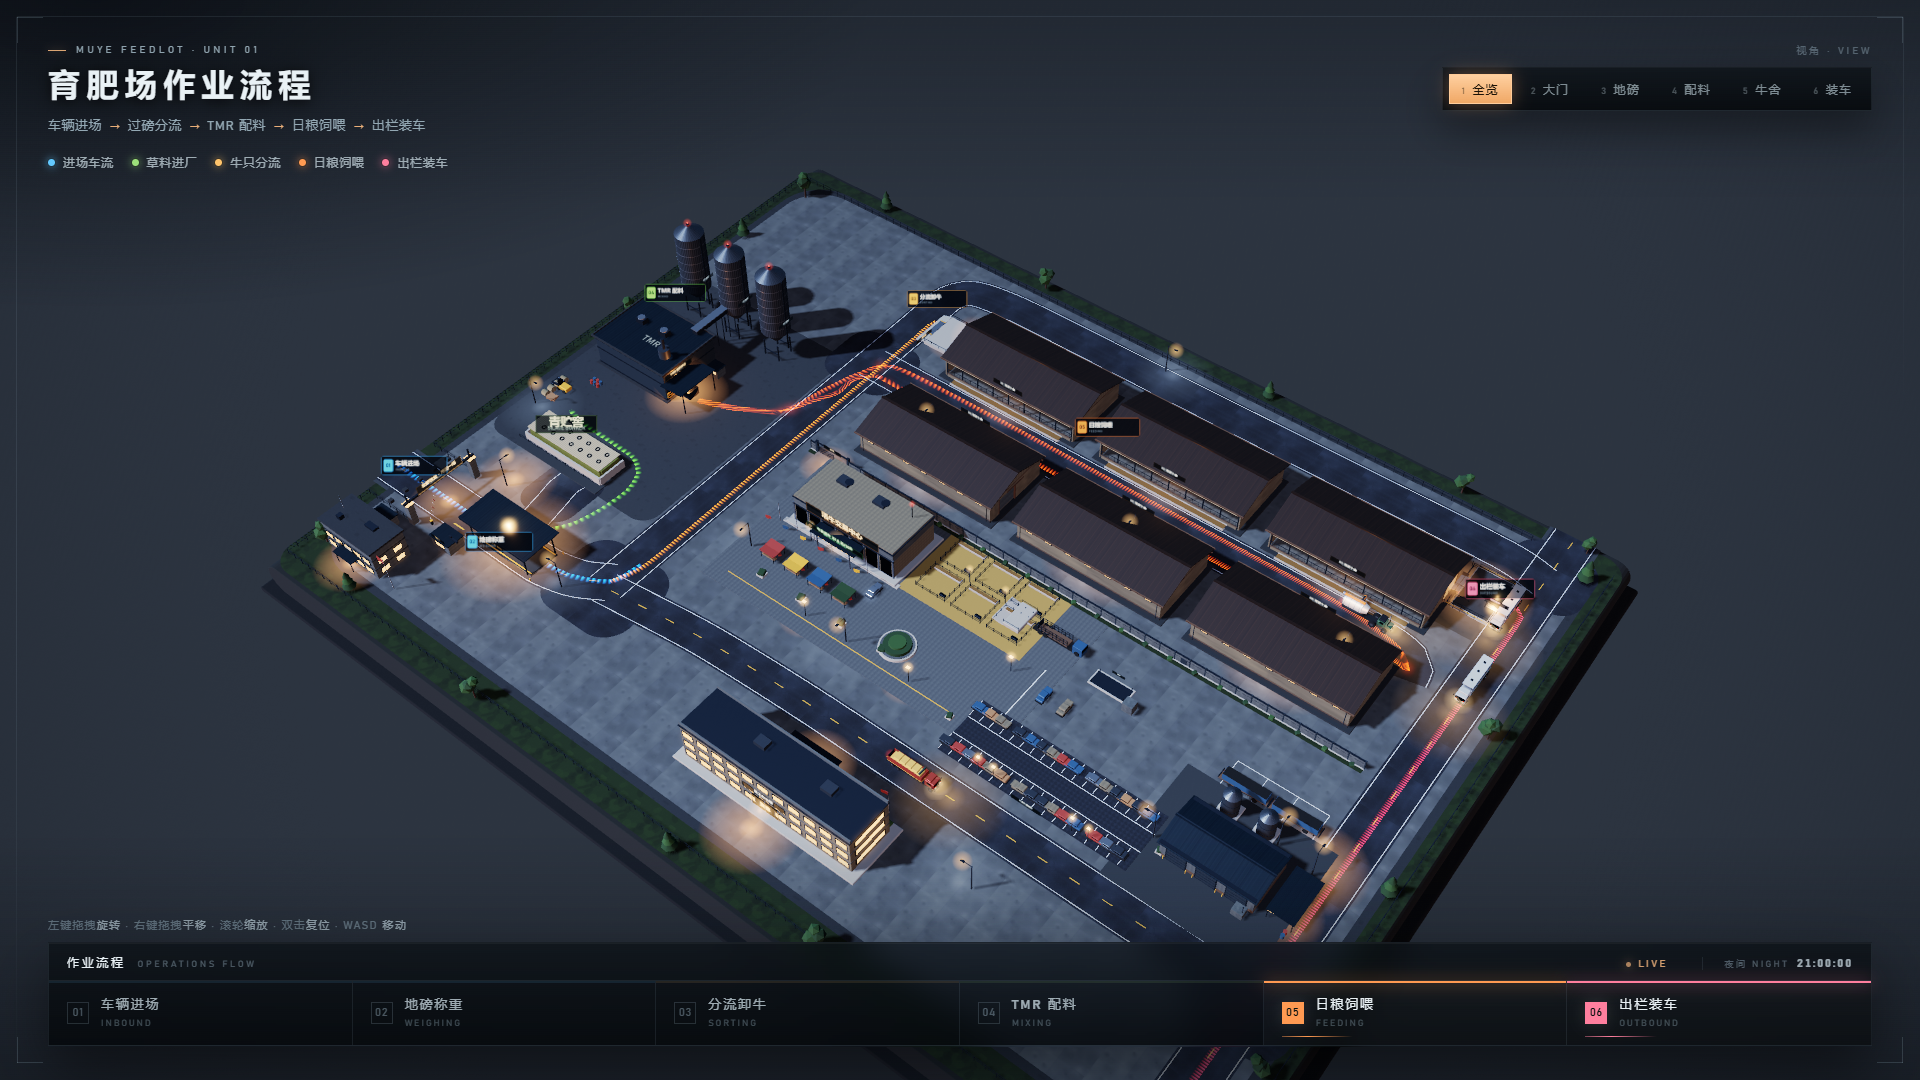
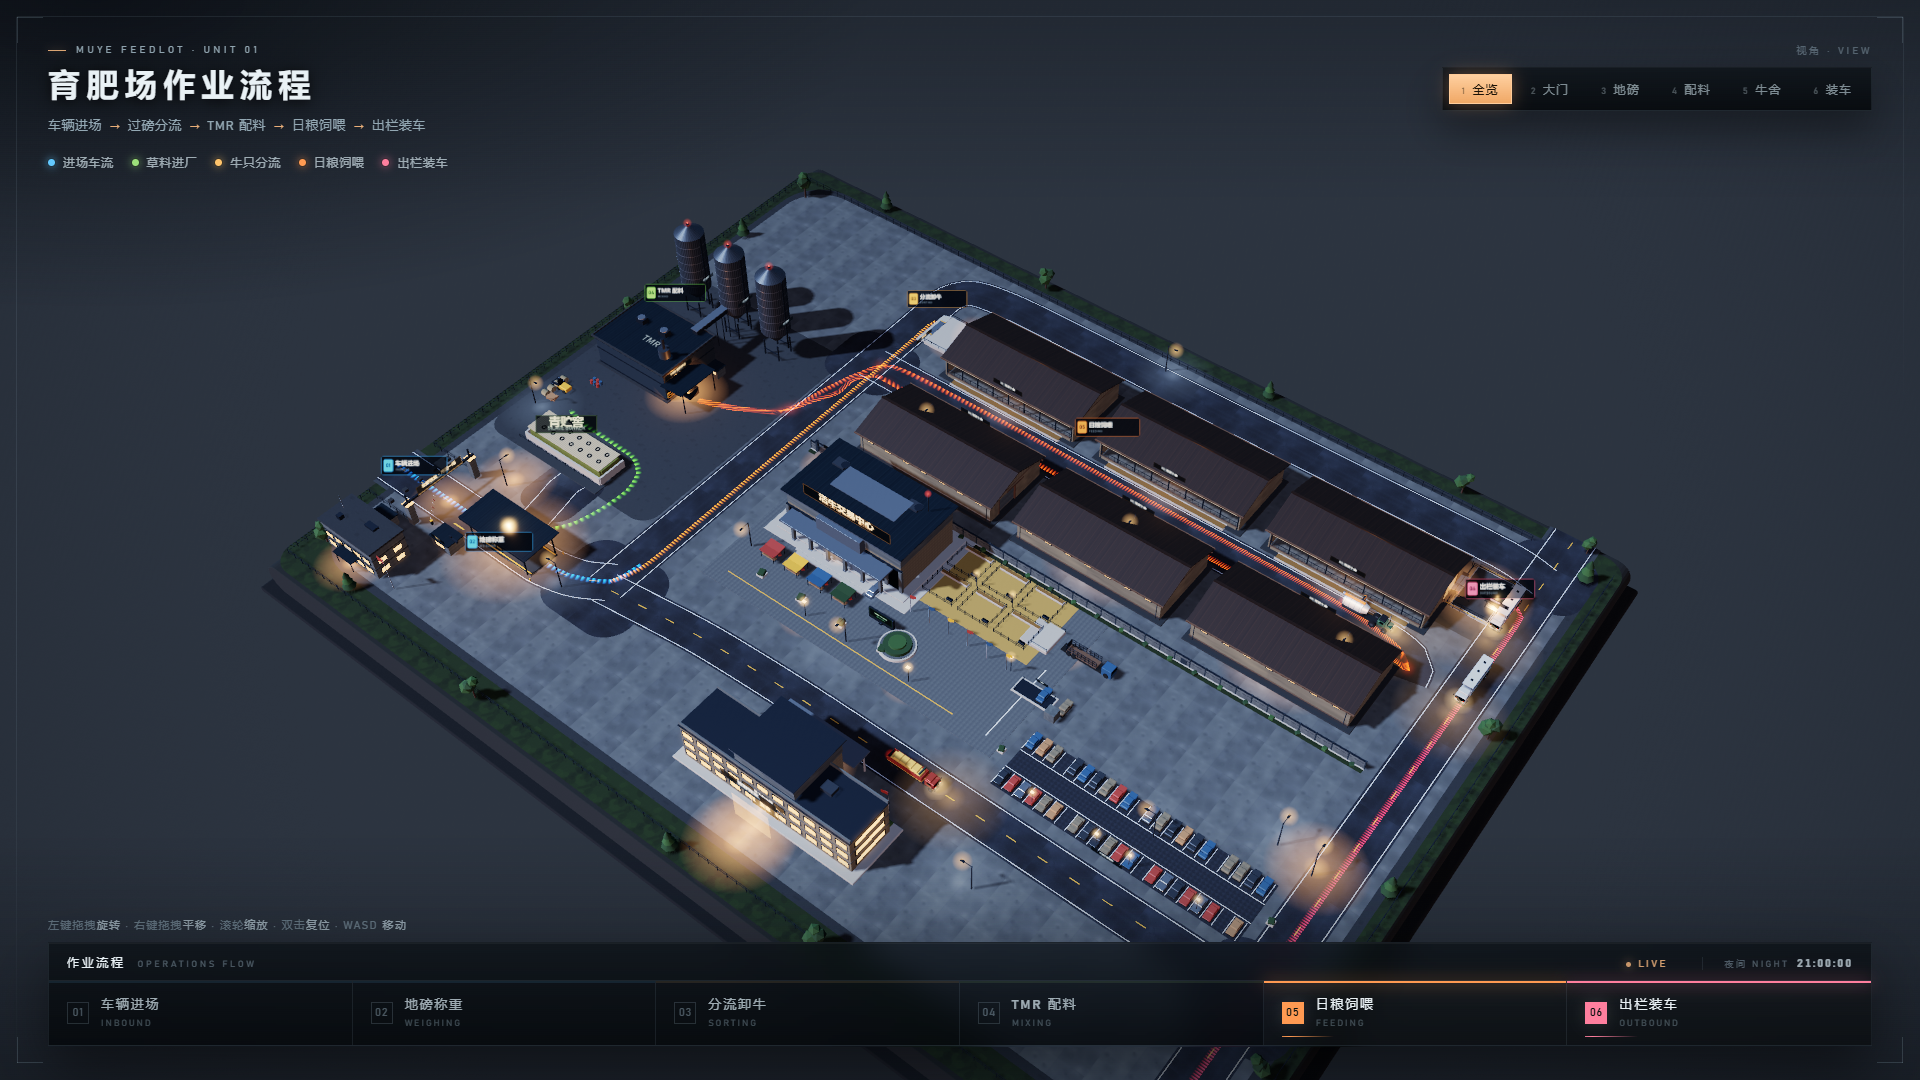
feat: 去掉机修车库；车位改为垂直停放；交易大厅与员工楼加体量
- 删除东南角的机修车库和挂车停放带（含旧车位线），该区并入停车场
- 停车场扩到 60m 宽（约 44 个车位），车头朝向改为垂直车位方向
- 交易大厅重做：抬高台基、六柱柱廊、通高玻璃中庭、屋顶上立招牌、广场行情立牌，屋顶加采光带与设备
- 员工楼加中部塔楼（通高中庭 + 柱廊 + 楼名），不再是一条平箱子

Changed region(s): [[0.3438, 0.3972, 0.7188, 0.8861]]

diff --git a/js/buildings.js b/js/buildings.js
@@ -783,55 +783,74 @@
     U.box(kit, M.yellow, 66, 0.03, 0.22, -6, 0.3, 31);
     U.box(kit, M.line, 0.22, 0.03, 22, 36, 0.3, 20);
 
-    // ── 交易大厅 ──
-    U.box(kit, M.concreteTrough, Hh.w + 3.4, 0.62, Hh.d + 3.4, cx, 0.56, cz, 0, 0, 0, 1.4);
-    U.box(kit, M.wall, Hh.w, 8.8, Hh.d, cx, 4.95, cz, 0, 0, 0, 0.04);
-    U.box(kit, M.wallCool, Hh.w + 0.08, 2.3, Hh.d + 0.08, cx, 7.55, cz);
-    U.box(kit, M.steel, Hh.w + 0.5, 0.24, Hh.d + 0.5, cx, 8.86, cz);
-    U.box(kit, M.concreteTrough, Hh.w + 5, 0.26, 1.4, cx, 0.35, zf + 1.2, 0, 0, 0, 0.9);
+    // ── 交易大厅：抬高的台基 + 柱廊 + 玻璃幕墙 + 中庭 ──
+    U.box(kit, M.concreteTrough, Hh.w + 9, 0.3, Hh.d + 9, cx, 0.3, cz, 0, 0, 0, 1.8);
+    U.box(kit, M.concreteTrough, Hh.w + 4.6, 0.34, Hh.d + 4.6, cx, 0.62, cz, 0, 0, 0, 1.2);
+    for (let s = 0; s < 3; s++) {
+      U.box(kit, M.concreteTrough, 24 - s * 1.8, 0.22, 1.2, cx, 0.11 + s * 0.22, zf + 3.4 + s * 1.1, 0, 0, 0, 0.18);
+    }
+    // 主体
+    U.box(kit, M.wall, Hh.w, 11.2, Hh.d, cx, 0.96 + 5.6, cz, 0, 0, 0, 0.04);
+    U.box(kit, M.wallCool, Hh.w + 0.14, 2.6, Hh.d + 0.14, cx, 10.3, cz);
+    U.box(kit, M.steelLight, Hh.w + 2.0, 0.5, Hh.d + 2.0, cx, 12.8, cz, 0, 0, 0, 0.2);
+    U.box(kit, M.roofPlant, Hh.w + 2.1, 0.16, Hh.d + 2.1, cx, 13.1, cz);
+    // 屋顶采光带 + 设备
+    U.box(kit, M.glass, 18, 0.55, 6, cx, 13.35, cz - 1);
+    U.box(kit, M.steelLight, 19.2, 0.2, 7.2, cx, 13.62, cz - 1);
+    for (const px of [cx - 12, cx + 10]) {
+      U.box(kit, M.galv, 3.4, 1.2, 2.6, px, 13.1, cz - 4.2);
+      U.cyl(kit, M.steel, 1.1, 1.1, 0.16, 12, px + 1.4, 13.8, cz - 4.2);
+    }
+    U.cyl(kit, M.steel, 0.12, 0.12, 6.0, 8, cx + 13.5, 16.0, cz - 5);
+    glowSprite(world, 0xff5a4a, 1.8, cx + 13.5, 19.1, cz - 5, 0.9);
 
-    // 南立面玻璃幕墙
-    const bays = 7, bayW = Hh.w / bays;
+    // 南立面：竖向石柱 + 玻璃幕墙
+    const bays = 8, bayW = Hh.w / bays;
+    for (let i = 0; i <= bays; i++) {
+      U.box(kit, M.wallCool, 0.9, 7.4, 0.7, cx - hw + bayW * i, 4.2, zf + 0.1);
+    }
     for (let i = 0; i < bays; i++) {
       const x = cx - hw + bayW * (i + 0.5);
-      U.box(kit, M.glass, bayW - 1.0, 5.6, 0.16, x, 3.6, zf + 0.02);
-      U.box(kit, M.steelLight, 0.42, 6.2, 0.3, cx - hw + bayW * i, 3.9, zf + 0.04);
-      U.box(kit, M.steel, bayW - 0.9, 0.12, 0.22, x, 0.95, zf + 0.06);
+      U.box(kit, M.glass, bayW - 1.0, 6.6, 0.16, x, 4.0, zf - 0.04);
+      U.box(kit, M.steel, bayW - 0.9, 0.1, 0.2, x, 1.0, zf + 0.06);
+      U.box(kit, M.steel, bayW - 0.9, 0.1, 0.2, x, 7.5, zf + 0.06);
     }
-    U.box(kit, M.steelLight, 0.42, 6.2, 0.3, cx + hw, 3.9, zf + 0.04);
-    U.box(kit, M.steel, Hh.w + 0.6, 0.26, 0.4, cx, 6.55, zf + 0.06);
-    glowPlane(world, Hh.w - 3, 4.6, cx, 3.4, zf - 0.6, 0, 0xffc98a, 0.14);
+    U.box(kit, M.steel, Hh.w + 0.8, 0.3, 0.5, cx, 8.1, zf + 0.1);
+    glowPlane(world, Hh.w - 4, 5.2, cx, 3.6, zf - 0.7, 0, 0xffc98a, 0.2);
 
-    // 入口雨棚
-    const doorW = 7.4;
-    U.box(kit, M.roofPlant, doorW + 6, 0.22, 4.2, cx, 5.75, zf + 2.0, -0.03, 0, 0);
-    for (const px of [cx - doorW / 2 - 1.2, cx + doorW / 2 + 1.2]) {
-      U.box(kit, M.steelLight, 0.24, 5.6, 0.24, px, 2.85, zf + 3.7);
+    // 入口中庭（外凸 1.6m 的高玻璃盒）+ 柱廊
+    const atW = 12.0, atH = 10.4;
+    U.box(kit, M.steelLight, atW + 1.2, atH + 0.6, 1.9, cx, 0.96 + (atH + 0.6) / 2, zf + 0.9, 0, 0, 0, 0.1);
+    U.box(kit, M.glass, atW, atH, 1.1, cx, 0.96 + atH / 2, zf + 1.0);
+    for (let i = -2; i <= 2; i++) {
+      U.box(kit, M.steelLight, 0.18, atH, 0.2, cx + i * (atW / 5), 0.96 + atH / 2, zf + 1.56);
     }
-    U.box(kit, M.warmGlow, doorW + 5, 0.07, 0.08, cx, 5.6, zf + 4.0);
-    U.box(kit, M.glass, doorW, 4.6, 0.14, cx, 2.6, zf + 0.1);
-    for (const px of [cx - doorW / 2, cx + doorW / 2, cx]) {
-      U.box(kit, M.steelLight, 0.22, 4.7, 0.22, px, 2.6, zf + 0.14);
+    U.box(kit, M.warmGlow, atW, 0.1, 0.12, cx, 11.5, zf + 1.6);
+    glowPlane(world, atW - 1, atH - 1.2, cx, 1.1 + (atH - 1.2) / 2, zf - 0.2, 0, 0xffbb78, 0.3);
+    // 柱廊（六根方柱 + 檐口梁）
+    for (const px of [-13.2, -7.9, -2.6, 2.6, 7.9, 13.2]) {
+      U.box(kit, M.wallCool, 0.78, 7.0, 0.78, cx + px, 4.0, zf + 2.9, 0, 0, 0, 0.08);
+      U.box(kit, M.steelLight, 1.0, 0.24, 1.0, cx + px, 0.86, zf + 2.9, 0, 0, 0, 0.1);
+      U.box(kit, M.steelLight, 1.0, 0.26, 1.0, cx + px, 7.5, zf + 2.9, 0, 0, 0, 0.1);
     }
-    world.pools.push({ x: cx, z: zf + 4.6, size: 26, warm: 1 });
-    glowSprite(world, 0xffcf9a, 6.5, cx, 4.6, zf + 2.2, 0.5);
+    U.box(kit, M.steelLight, 30.5, 0.55, 4.6, cx, 7.9, zf + 2.9, 0, 0, 0, 0.14);
+    U.box(kit, M.warmGlow, 28.5, 0.07, 0.1, cx, 7.6, zf + 4.9);
+    world.pools.push({ x: cx, z: zf + 4.2, size: 30, warm: 1 });
+    glowSprite(world, 0xffcf9a, 7.5, cx, 5.0, zf + 2.2, 0.5);
 
-    // 招牌与行情屏
-    sign(world, '活牛交易中心', 'LIVE CATTLE MARKET · 每日竞价', 22, 3.0, cx, 8.35, zf + 0.16, 0, {
-      size: 96, subSize: 34, bg: 'rgba(9,12,14,0.92)', border: 'rgba(255,178,104,0.5)',
-      glow: 'rgba(255,160,80,0.35)', color: '#ffe6c4', subColor: 'rgba(255,196,150,0.8)',
+    // 屋顶招牌（立在女儿墙上，不会被雨棚遮住）
+    U.box(kit, M.steel, 26.5, 0.3, 0.5, cx, 12.7, zf - 1.4);
+    sign(world, '活牛交易中心', 'LIVE CATTLE MARKET · 每日竞价', 26, 3.4, cx, 14.6, zf - 1.5, 0, {
+      size: 108, subSize: 38, bg: 'rgba(9,12,14,0.94)', border: 'rgba(255,178,104,0.55)',
+      glow: 'rgba(255,160,80,0.4)', color: '#ffe6c4', subColor: 'rgba(255,196,150,0.82)',
     });
-    sign(world, '今日活牛 32.6 元/公斤', '挂牌 128 头 · 成交 96 头', 17, 1.9, cx, 6.35, zf + 2.9, 0, {
-      size: 64, subSize: 38, bg: 'rgba(10,14,12,0.9)', border: 'rgba(140,235,170,0.42)',
-      glow: 'rgba(120,240,180,0.22)', color: '#c8f5d6', subColor: 'rgba(150,240,190,0.82)',
+    // 广场上的行情立牌
+    U.box(kit, M.steel, 7.2, 3.4, 0.6, cx + 19, 2.0, zf + 9.5, 0, 0, 0, 0.14);
+    U.box(kit, M.steel, 0.9, 0.7, 1.4, cx + 19, 0.6, zf + 9.5, 0, 0, 0, 0.1);
+    sign(world, '今日活牛 32.6 元/公斤', '挂牌 128 头 · 成交 96 头', 6.6, 2.6, cx + 19, 2.6, zf + 9.82, 0, {
+      size: 54, subSize: 34, bg: 'rgba(10,14,12,0.94)', border: 'rgba(140,235,170,0.46)',
+      glow: 'rgba(120,240,180,0.24)', color: '#c8f5d6', subColor: 'rgba(150,240,190,0.85)',
     });
-    // 屋顶设备
-    for (const px of [cx - 8, cx + 3]) {
-      U.box(kit, M.galv, 3.4, 1.2, 2.6, px, 9.5, cz - 3);
-      U.cyl(kit, M.steel, 1.1, 1.1, 0.16, 12, px + 1.4, 10.2, cz - 3);
-    }
-    U.cyl(kit, M.steel, 0.12, 0.12, 5.0, 8, cx + 11.5, 11.2, cz - 4);
-    glowSprite(world, 0xff5a4a, 1.6, cx + 11.5, 13.8, cz - 4, 0.9);
 
     // ── 待售栏 ──
     const penX = P.x0, penZ = P.z0;
@@ -919,10 +938,10 @@
     }
     const flagCols = [M.red, M.blue, M.yellow, M.red, M.blue, M.yellow];
     for (let i = 0; i < flagCols.length; i++) {
-      const x = -40 + i * 5.4;
-      U.cyl(kit, M.steelLight, 0.06, 0.09, 6.4, 6, x, 3.4, 11.8);
-      U.box(kit, flagCols[i], 1.5, 0.85, 0.05, x + 0.8, 6.0, 16.2, 0, 0.22, 0);
-      U.box(kit, flagCols[i], 0.9, 0.6, 0.05, x + 0.5, 5.5, 16.2, 0, 0.1, 0);
+      const x = 2 + i * 5.4;
+      U.cyl(kit, M.steelLight, 0.06, 0.09, 6.4, 6, x, 3.4, 14.4);
+      U.box(kit, flagCols[i], 1.5, 0.85, 0.05, x + 0.8, 6.0, 14.4, 0, 0.22, 0);
+      U.box(kit, flagCols[i], 0.9, 0.6, 0.05, x + 0.5, 5.5, 14.4, 0, 0.1, 0);
     }
     // 广场花箱
     for (let i = 0; i < 4; i++) {
@@ -962,6 +981,34 @@
     U.box(kit, M.wallCool, w + 0.4, 1.0, 0.3, cx, 0.8 + H + 0.62, zf - 0.2);
     U.box(kit, M.wallCool, w + 0.4, 1.0, 0.3, cx, 0.8 + H + 0.62, cz - d / 2 + 0.2);
 
+    // 中部塔楼：入口门厅 + 通高玻璃中庭（让立面不至于一片平）
+    const pavW = 16, pavD = 14.5, pavZ = cz + 2.2;
+    U.box(kit, M.wall, pavW, 14.6, pavD, cx, 0.8 + 7.3, pavZ, 0, 0, 0, 0.04);
+    U.box(kit, M.wallCool, pavW + 0.24, 3.2, pavD + 0.24, cx, 13.4, pavZ);
+    U.box(kit, M.steelLight, pavW + 1.6, 0.42, pavD + 1.6, cx, 15.6, pavZ, 0, 0, 0, 0.22);
+    U.box(kit, M.steel, pavW + 1.7, 0.14, pavD + 1.7, cx, 15.9, pavZ);
+    // 通高中庭玻璃（贴着塔楼前脸）
+    const pgW = 11.4, pgH = 10.2;
+    U.box(kit, M.steelLight, pgW + 1.0, pgH + 0.5, 0.5, cx, 0.8 + (pgH + 0.5) / 2, pavZ + pavD / 2 + 0.2, 0, 0, 0, 0.1);
+    U.box(kit, M.glass, pgW, pgH, 0.2, cx, 0.8 + pgH / 2, pavZ + pavD / 2 + 0.42);
+    for (let i = -2; i <= 2; i++) {
+      U.box(kit, M.steelLight, 0.22, pgH, 0.24, cx + i * (pgW / 5), 0.8 + pgH / 2, pavZ + pavD / 2 + 0.5);
+    }
+    U.box(kit, M.warmGlow, pgW, 0.12, 0.1, cx, 0.9 + pgH, pavZ + pavD / 2 + 0.56);
+    glowPlane(world, pgW - 1.5, 8.0, cx, 4.4, pavZ + pavD / 2 + 0.62, 0, 0xffc98a, 0.2);
+    // 门厅雨棚
+    U.box(kit, M.steelLight, pavW + 6, 0.4, 5.2, cx, 8.4, pavZ + pavD / 2 + 2.6, -0.02, 0, 0, 0.14);
+    U.box(kit, M.warmGlow, pavW + 5, 0.07, 0.1, cx, 8.16, pavZ + pavD / 2 + 5.2);
+    for (const px of [cx - pavW / 2 - 1.6, cx + pavW / 2 + 1.6]) {
+      U.cyl(kit, M.steelLight, 0.24, 0.28, 7.6, 12, px, 4.6, pavZ + pavD / 2 + 4.6);
+    }
+    world.pools.push({ x: cx, z: pavZ + pavD / 2 + 5.2, size: 24, warm: 1 });
+    // 塔楼顶的楼名
+    sign(world, '牧野牧业', 'MUYE CATTLE · 员工办公楼', 15, 2.4, cx, 13.6, pavZ + pavD / 2 + 0.3, 0, {
+      size: 96, subSize: 34, bg: 'rgba(9,12,15,0.94)', border: 'rgba(150,205,255,0.46)',
+      glow: 'rgba(120,180,255,0.3)', color: '#e6f1ff', subColor: 'rgba(175,205,235,0.82)',
+    });
+
     // 三层窗（前后两个长立面都开窗，楼在路南侧、镜头从东南看过来）
     const bays = 11, bw = w / bays;
     const zb = cz - d / 2;
@@ -969,7 +1016,7 @@
       const y = 2.2 + f * 3.3;
       for (let i = 0; i < bays; i++) {
         const x = cx - w / 2 + bw * (i + 0.5);
-        const frontDoor = f === 0 && (i === 4 || i === 5 || i === 6);
+        const frontDoor = i === 4 || i === 5 || i === 6;
         if (!frontDoor) {
           U.box(kit, M.glass, bw - 1.05, 1.85, 0.14, x, y + 0.5, zf + 0.02);
           U.box(kit, M.warmGlow, bw - 1.5, 1.5, 0.06, x, y + 0.5, zf + 0.1);
@@ -1125,7 +1172,7 @@
       const x = P.x0 + st * (i + 0.5);
       for (const half of [0, 1]) {
         const z = half === 0 ? P.z0 + rowD / 2 - 0.15 : P.z1 - rowD / 2 + 0.15;
-        const rot = half === 0 ? 0 : Math.PI;
+        const rot = half === 0 ? Math.PI / 2 : -Math.PI / 2;
         if ((i * 3 + half * 5) % 7 === 2) { k++; continue; }
         parkedCar(kit, M, x, z, rot, paints[order[k % order.length]]);
         k++;
@@ -1175,10 +1222,6 @@
     buildStaffOffice(kit, M, world);
     buildParking(kit, M, world);
 
-    // 机修车库挪到东南角，挂车停在员工车场
-    buildWorkshop(kit, M, world, L.market.workshop.cx, L.market.workshop.cz);
-    parkedTrailer(kit, M, 87, 9, 0);
-    parkedTrailer(kit, M, 99, 9, 0.015);
 
     // 料槽前的日粮光斑（喂料区）
     for (const b of L.barns) {

diff --git a/js/world.js b/js/world.js
@@ -212,19 +212,9 @@
     for (let i = 0; i < 7; i++) {
       U.box(kit, M.yellow, 3.4, 0.02, 0.34, wb.x - 15, 0.242, wb.z - 6 + i * 2, 0, 0, 0);
     }
-    // 停车位（机修车间东侧，挂车停放带）
-    const lot = L.market.lot;
-    for (const pz of [lot.z0, lot.z1]) {
-      U.box(kit, M.line, lot.x1 - lot.x0, 0.02, 0.14, (lot.x0 + lot.x1) / 2, 0.242, pz);
-    }
-    for (const px of [lot.x0, lot.x1]) {
-      U.box(kit, M.line, 0.14, 0.02, lot.z1 - lot.z0, px, 0.242, (lot.z0 + lot.z1) / 2);
-    }
-    for (let i = 1; i < 3; i++) {
-      const px = lot.x0 + ((lot.x1 - lot.x0) * i) / 3;
-      U.box(kit, M.line, 0.12, 0.02, lot.z1 - lot.z0, px, 0.242, (lot.z0 + lot.z1) / 2);
-    }
+  }
 
+  function buildFlows(kit, M, world) {
     // 流向光带
     for (const f of L.flow) {
       const geo = ribbonGeo(f.pts, f.width, 0.262, { uv: 8 });
@@ -619,6 +609,7 @@
     const kit = new U.Kit();
     buildGround(kit, M);
     buildRoads(kit, M, world);
+    buildFlows(kit, M, world);
     buildFences(kit, M);
     FL.buildBuildings(kit, M, world);
     buildProps(kit, M, world);

diff --git a/js/layout.js b/js/layout.js
@@ -76,12 +76,11 @@
     /* 场区中部（生产区以南，用围墙隔开）：交易中心 / 员工办公 / 机修 */
     market: {
       wall: { z: -11, x0: -50, x1: 104, gates: [[-48, -38]], walkGate: [58, 61.5] },
-      hall: { cx: -22, cz: 2, w: 30, d: 15 },
-      pens: { x0: -2, z0: -9, cols: 3, rows: 2, w: 8.4, d: 7.4, gx: 1.8, gz: 1.8 },
-      ramp: { x: 23, z: 1 },
-      scale: { x: 50, z: 4 },
-      lot: { x0: 82, x1: 104, z0: 3.5, z1: 14.5 },
-      parking: { x0: 30, x1: 78, z0: 24, z1: 40, aisle: 5.2, stall: 2.7 },
+      hall: { cx: -20, cz: 2, w: 34, d: 19 },
+      pens: { x0: 0, z0: -9, cols: 3, rows: 2, w: 8.4, d: 7.4, gx: 1.8, gz: 1.8 },
+      ramp: { x: 31.5, z: 2 },
+      scale: { x: 38, z: 16 },
+      parking: { x0: 44, x1: 104, z0: 24, z1: 40, aisle: 5.2, stall: 2.7 },
       office: { cx: 12, cz: 68, w: 46, d: 12, rot: Math.PI },
       workshop: { cx: 92, cz: 26 },
     },

diff --git a/README.md b/README.md
@@ -44,8 +44,8 @@ python -m http.server 8080
 
 ## 场景里有什么
 
-- **园区**：254×194 米地块，有厚度的地台（不是无限网格），**六栋育肥牛舍**（三栋朝南、三栋隔着日粮道朝北，料槽、颈夹、饮水槽、卷帘、门洞暖光、背面高位通风格栅）、卸牛台、地磅与磅房、大门门卫、综合楼、TMR 配料中心 + 三只原料筒仓 + 青贮窖（覆膜 + 压胎）、出栏装车台、机修车库、挂车停车场、路灯、树。
-- **生产区与交易区**：一道 2.4 米高的围墙把牛舍区隔开，留一处车行大门（挂着"生产区 · 谢绝参观"）和一处人行小门；围墙南侧是**活牛交易中心**——玻璃幕墙的交易大厅（行情屏写着当日活牛价与成交头数）、六格待售栏（料槽、水槽、栏间过道灯）、装牛台和一辆停着的活牛车、交易地磅、四个彩色雨棚摊位、彩旗和中央花池；交易中心东侧是**员工停车场**（两排车位 + 三十来台车 + 车位灯），大厅门口还有几台临停；南侧临路是三层**员工办公楼**（双面开窗，夜里整栋亮着），再往东是机修车库与挂车车场。
+- **园区**：254×194 米地块，有厚度的地台（不是无限网格），**六栋育肥牛舍**（三栋朝南、三栋隔着日粮道朝北，料槽、颈夹、饮水槽、卷帘、门洞暖光、背面高位通风格栅）、卸牛台、地磅与磅房、大门门卫、综合楼、TMR 配料中心 + 三只原料筒仓 + 青贮窖（覆膜 + 压胎）、出栏装车台、路灯、树。
+- **生产区与交易区**：一道 2.4 米高的围墙把牛舍区隔开，留一处车行大门（挂着"生产区 · 谢绝参观"）和一处人行小门；围墙南侧是**活牛交易中心**——玻璃幕墙的交易大厅（行情屏写着当日活牛价与成交头数）、六格待售栏（料槽、水槽、栏间过道灯）、装牛台和一辆停着的活牛车、交易地磅、四个彩色雨棚摊位、彩旗和中央花池；交易中心东侧是**员工停车场**（两排车位、四十来台车、四盏车位灯），大厅门口还有几台临停；南侧临路是三层**员工办公楼**（中部塔楼 + 通高中庭 + 柱廊，双面开窗，夜里整栋亮着）。
 - **车**：活牛运输车（栅栏车厢）、草料自卸车（草捆 + 篷布）、TMR 日粮车（拖拉机 + 卧式搅拌罐）、出栏平板车。车按弧长路线跑，到站点会停留（过磅 3s、卸青贮 9s、卸牛 10s、投料 6s×6 站、装车 10s），停靠时地面上会亮起作业光斑并浮出作业标签。
 - **流向**：五组加法混合的流光带（进场 / 草料 / 牛只 / 日粮 / 出栏），用 `uTime` 驱动脉冲前进，配合路面黄色中线一起指出方向。
 - **昼夜**：`js/daycycle.js` 把一天拆成深夜 / 晨昏 / 白天三套配色做连续插值——天空穹顶的顶点色、太阳与月亮的方位和光色、半球光、雾的颜色与浓度、曝光、场内灯具与地面光斑的亮度全部同步，太阳落下去时场灯和窗户一点点亮起来。
@@ -60,7 +60,7 @@ css/style.css       深色工业风界面（标题 / 图例 / 视角 / 流程条
 js/utils.js         程序化贴图、倒角盒、几何合并 Kit、文字贴图、曲线 Path、补间
 js/layout.js        唯一的数据源：地块、路网、车辆路线、流向带、六个阶段、镜头预设
 js/world.js         地面 / 道路 / 围栏 / 灯杆 / 树 / 标签 / 灯光 / 地面光池
-js/buildings.js     牛舍、地磅、大门、办公室、TMR 车间与筒仓、卸牛台、装车台、车库、交易中心、员工楼、围墙
+js/buildings.js     牛舍、地磅、大门、办公室、TMR 车间与筒仓、卸牛台、装车台、交易中心、员工楼、停车场、围墙
 js/vehicles.js      车辆造型 + 运动物理（加减速 / 跟车让行 / 刹车灯 / 转向灯）
 js/effects.js       环境贴图、天空穹顶与星空、相机轨道、泛光管线
 js/daycycle.js      昼夜循环：按时刻插值天光、日月、场灯、雾、曝光
